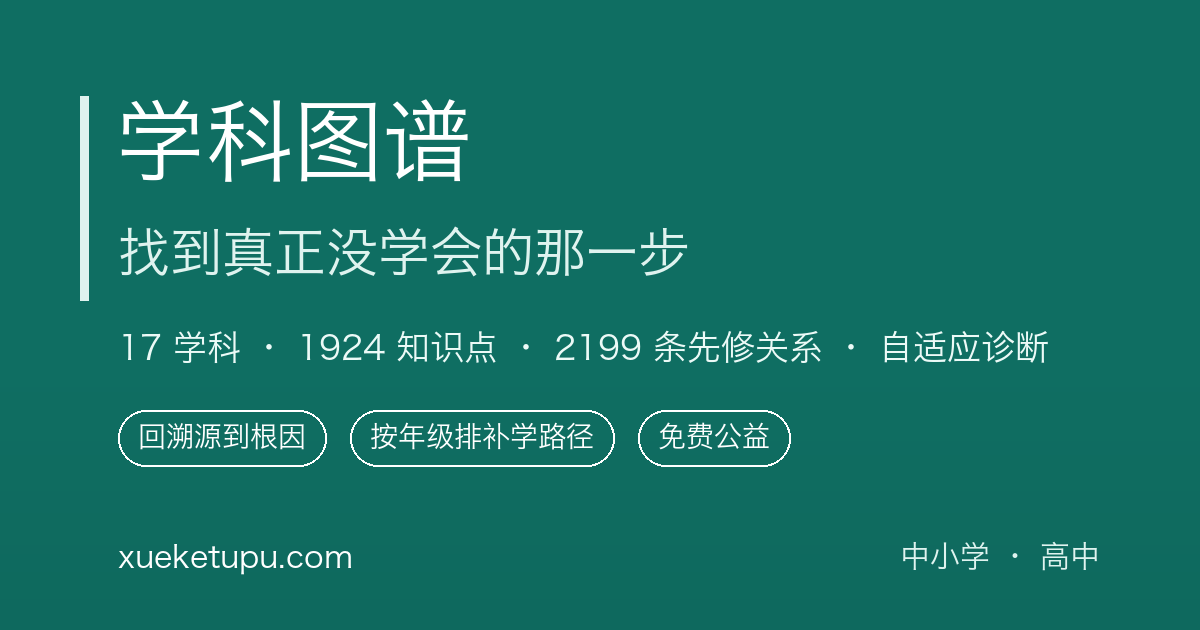
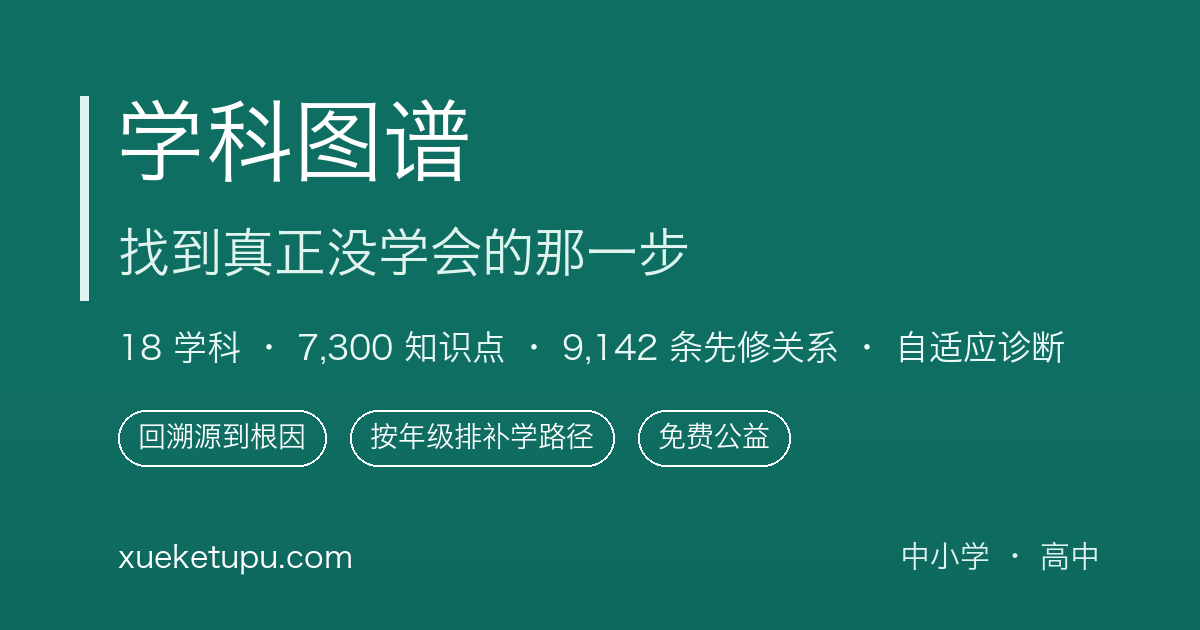
docs(shots): 首页/图谱/诊断三张配图与分享图重拍，数字与 18 个学科对齐
- 01-home：18 学科 · 7,300 点 · 9,142 边 · 43,796 题 · 2,974 课标（原来 17/1924/2199）
- 02-explore：方框+连线分层图（向上 2 层，向下 1 层）
- 03-diagnose：诊断结果页整页（回溯出的待补知识点清单）
- assets/og.png 重生成；make_og_image.py 改为读 data/stats.json + subject-groups.json 现算，不再写死
- README 顶部诊断题数同步为 43,796；图注与实图一致

Changed region(s): [[0.4625, 0.5127, 0.8942, 0.573], [0.2467, 0.5127, 0.4317, 0.573], [0.1233, 0.5429, 0.1542, 0.573]]

diff --git a/scripts/make_og_image.py b/scripts/make_og_image.py
@@ -44,7 +44,16 @@ d.rectangle([80, 96, 88, 300], fill=ACC)
 d.text((116, 96), "学科图谱", font=font(96, True), fill=FG)
 d.text((118, 226), "找到真正没学会的那一步", font=font(52), fill=ACC)
 
-line = "17 学科 · 1924 知识点 · 2199 条先修关系 · 自适应诊断"
+# 数字现算：学科数按首页学科卡口径（subject-groups），知识点/先修边读 data/stats.json
+import json as _json
+_D = os.path.join(os.path.dirname(os.path.dirname(os.path.abspath(__file__))), "data")
+try:
+    _st = _json.load(open(os.path.join(_D, "stats.json"), encoding="utf-8"))
+    _grp = _json.load(open(os.path.join(_D, "subject-groups.json"), encoding="utf-8"))
+    line = "%d 学科 · %s 知识点 · %s 条先修关系 · 自适应诊断" % (
+        len(_grp.get("subjects", [])), format(_st["topics"], ","), format(_st["dependencies"], ","))
+except Exception:
+    line = "学科图谱 · 全学科知识点 · 先修关系 · 自适应诊断"
 d.text((118, 330), line, font=font(34), fill=(236, 250, 247))
 
 # 三个标签

diff --git a/README.md b/README.md
@@ -1,6 +1,6 @@
 # 中国 K-12 全学科知识图谱（cn-k12-dxyc2286）
 
-**18 个学科 · 7,300 个知识点 · 9,142 条先修边 · 41,831 道诊断题 · 2,974 条课标条目**，覆盖小学到高中。每个知识点带**可观察的掌握标准**、**节点级诊断题**、**课标条目与置信度**；先修边分 hard / soft 两档，可直接驱动前置诊断与学习路径推荐。
+**18 个学科 · 7,300 个知识点 · 9,142 条先修边 · 43,796 道诊断题 · 2,974 条课标条目**，覆盖小学到高中。每个知识点带**可观察的掌握标准**、**节点级诊断题**、**课标条目与置信度**；先修边分 hard / soft 两档，可直接驱动前置诊断与学习路径推荐。
 
 [![License: CC BY-NC 4.0](https://img.shields.io/badge/License-CC_BY--NC_4.0-lightgreen.svg)](https://creativecommons.org/licenses/by-nc/4.0/deed.zh-hans)
 [![知识点](https://img.shields.io/badge/%E7%9F%A5%E8%AF%86%E7%82%B9-7300-2ea44f)](data/topics.json)
@@ -16,7 +16,7 @@
 
 ![知识图谱：当前知识点附近的先修关系（向上 2 层，向下 1 层）](screenshots/02-explore.png)
 
-![诊断结果：薄弱根因、按学习顺序排好的路径与逐题记录](screenshots/03-diagnose.png)
+![诊断结果：沿先修关系回溯出的待补知识点，按学习顺序排好](screenshots/03-diagnose.png)
 
 | 学段 | 知识点 | 诊断题 | 说明 |
 | --- | ---: | ---: | --- |
